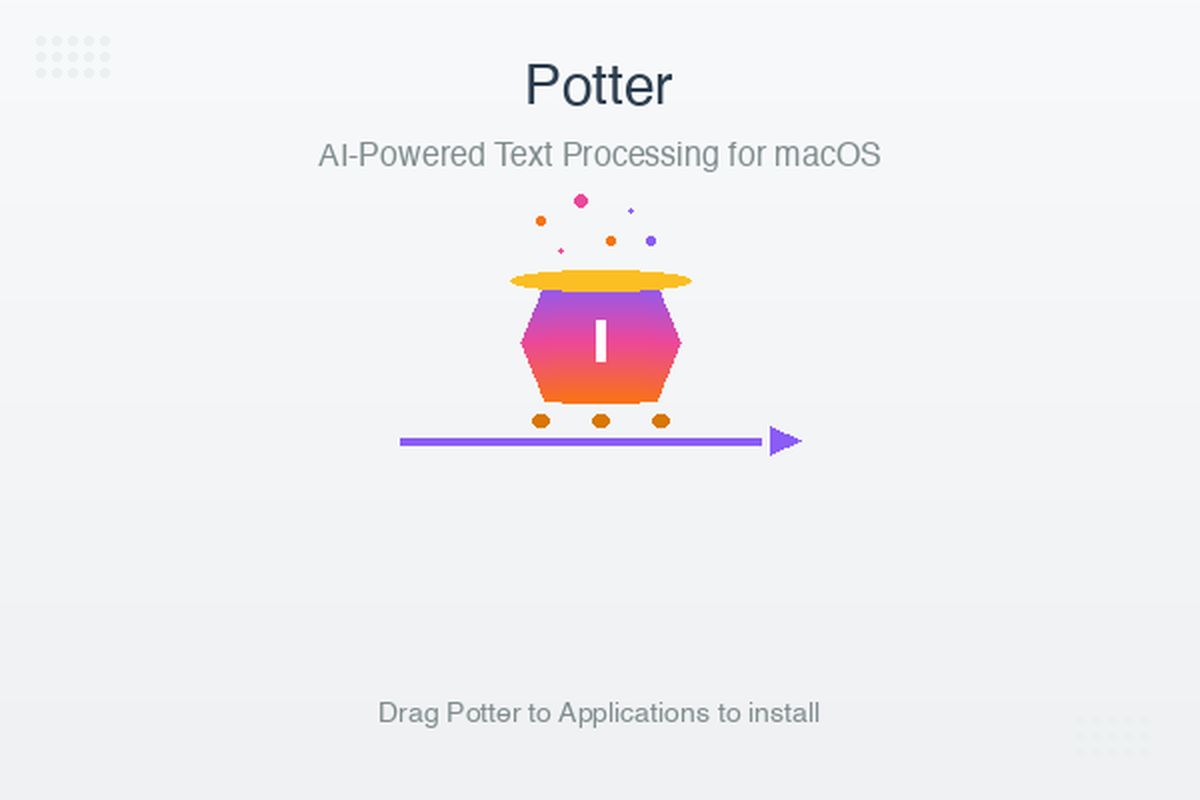
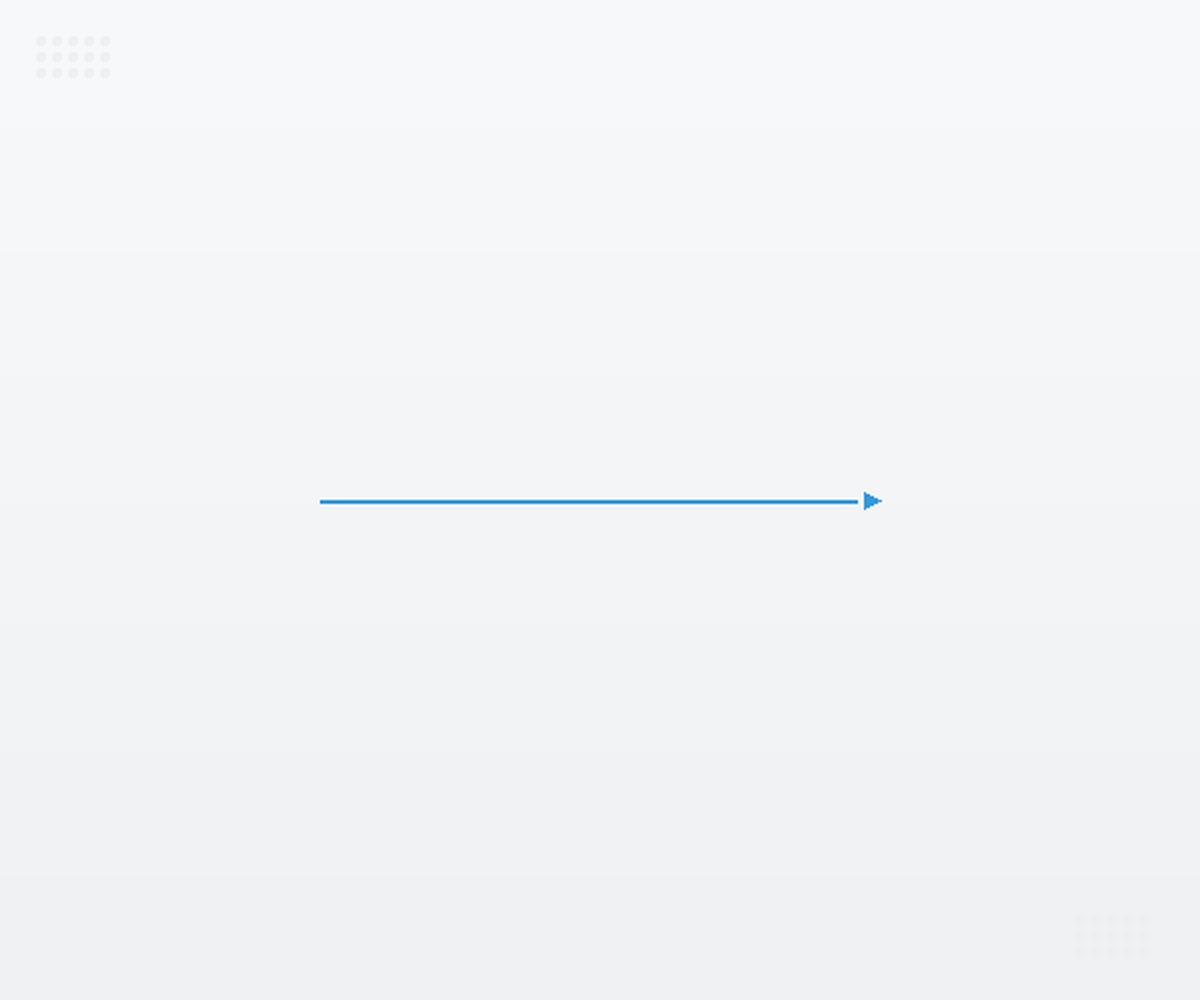
Update DMG design: clean minimal background with taller window
- Remove all text elements from DMG background for cleaner look
- Reduce arrow size (thickness 4px→2px, head 15px→8px) for subtlety
- Increase DMG window height (500px→600px) for better proportions
- Update background image dimensions to 600x500px
- Maintain proper icon positioning at (160,250) and (440,250)

diff --git a/scripts/build_swift_app.py b/scripts/build_swift_app.py
@@ -591,7 +591,7 @@ tell application "Finder"
         set current view of container window to icon view
         set toolbar visible of container window to false
         set statusbar visible of container window to false
-        set the bounds of container window to {{400, 100, 900, 400}}
+        set the bounds of container window to {{400, 100, 1000, 600}}
         set viewOptions to the icon view options of container window
         set arrangement of viewOptions to not arranged
         set icon size of viewOptions to 100'''
@@ -601,8 +601,8 @@ tell application "Finder"
         set background picture of viewOptions to file ".background:background.png"'''
             
         applescript += f'''
-        set position of item "{APP_NAME}.app" to {{150, 190}}
-        set position of item "Applications" to {{350, 190}}
+        set position of item "{APP_NAME}.app" to {{160, 250}}
+        set position of item "Applications" to {{440, 250}}
         close
         open
         update without registering applications
